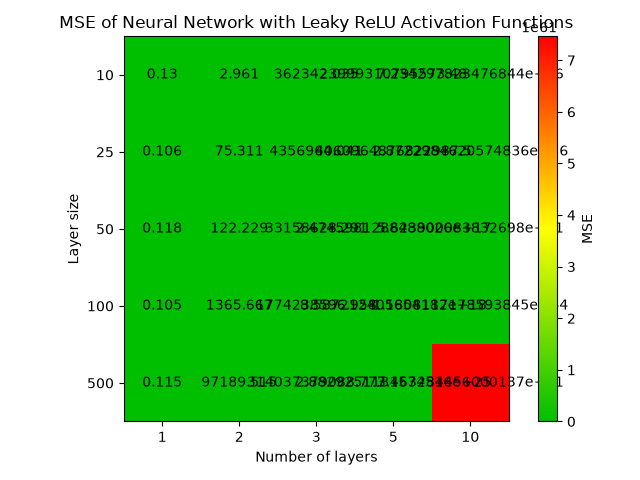
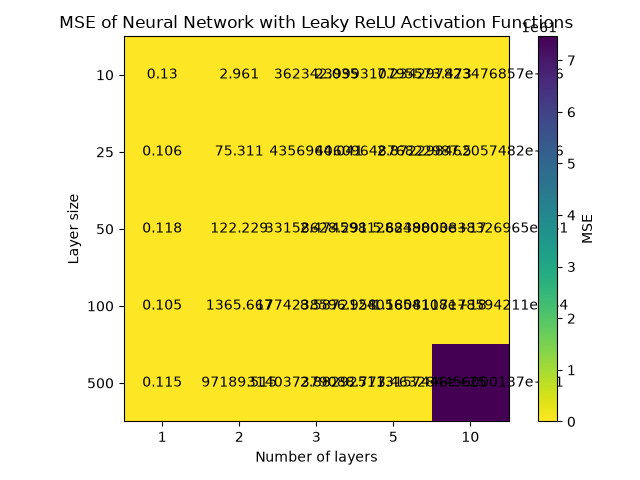
Changed color of plots

diff --git a/part_c/funcs_depth_comparison.py b/part_c/funcs_depth_comparison.py
@@ -43,31 +43,7 @@ def plot_heatmap(n, r, epochs, layer_depths, layer_sizes, activation_func, activ
             errs[i, j] = net.mse(x_test, y_test)
 
     fig, ax = plt.subplots()
-    segmentdata = {
-        'red':   [(0.0, 0.0, 0.0),
-                (0.5, 1.0, 1.0),
-                (1.0, 1.0, 1.0)],
-        'green': [(0.0, 1.0, 0.75),
-                (0.5, 1.0, 1.0),
-                (1.0, 0.0, 0.0)],
-        'blue':  [(0.0, 0.0, 0.0),
-                (0.5, 0.0, 0.0),
-                (1.0, 0.0, 0.0)]
-    }
-    segmentdata = {
-        'red':   [(0.0, 0.0, 0.0),
-                (0.5, 1.0, 1.0),
-                (1.0, 1.0, 0.0)],
-        'green': [(0.0, 0.0, 0.75),
-                (0.5, 1.0, 1.0),
-                (1.0, 0.0, 0.0)],
-        'blue':  [(0.0, 0.0, 0.0),
-                (0.5, 0.0, 0.0),
-                (1.0, 0.0, 0.0)]
-    }
-    # I hope whoever is looking at these figures is not red-green colorblind!
-    cmap = mpl.colors.LinearSegmentedColormap(name="GrYlRd", segmentdata=segmentdata)
-    im = ax.imshow(errs, cmap=cmap)
+    im = ax.imshow(errs, cmap="viridis_r")
     ax.set_xticks(range(len(layer_depths)), labels=layer_depths)
     ax.set_yticks(range(len(layer_sizes)), labels=layer_sizes)
     errs_round = np.round(errs, 3)
@@ -82,16 +58,18 @@ def plot_heatmap(n, r, epochs, layer_depths, layer_sizes, activation_func, activ
     fig.tight_layout()
     fig.savefig(filename)
 
-rng = np.random.default_rng(2026)
-gammas = np.logspace(-4, 0, 9)
-n = 100
-r = 0.25
-# Only 100 epochs, so script can finish before heat death of the universe
-epochs=100
-layer_sizes = [10, 25, 50, 100, 500]
+if __name__ == "__main__":
+    rng = np.random.default_rng(2026)
+    gammas = np.logspace(-4, 0, 9)
+    n = 100
+    r = 0.25
+    # Only 100 epochs, so script can finish before heat death of the universe
+    # Also, using only 100 epochs makes bias/variance trade-off more visible
+    epochs=100
+    layer_sizes = [10, 25, 50, 100, 500]
 
-plot_heatmap(n, r, epochs, [1, 2, 3, 5, 10], layer_sizes, sigmoid, sigmoid_der, "MSE of Neural Network with Sigmoid Activation Functions", "results/sigmoid_heatmap.png", rng)
-rng = np.random.default_rng(2026)
-plot_heatmap(n, r, epochs, [1, 2, 3, 5, 10], layer_sizes, ReLU, ReLU_der, "MSE of Neural Network with ReLU Activation Functions", "results/relu_heatmap.png", rng)
-rng = np.random.default_rng(2026)
-plot_heatmap(n, r, epochs, [1, 2, 3, 5, 10], layer_sizes, LReLU, LReLU_der, "MSE of Neural Network with Leaky ReLU Activation Functions", "results/lrelu_heatmap.png", rng)
+    plot_heatmap(n, r, epochs, [1, 2, 3, 5, 10], layer_sizes, sigmoid, sigmoid_der, "MSE of Neural Network with Sigmoid Activation Functions", "../results/sigmoid_heatmap.png", rng)
+    rng = np.random.default_rng(2026)
+    plot_heatmap(n, r, epochs, [1, 2, 3, 5, 10], layer_sizes, ReLU, ReLU_der, "MSE of Neural Network with ReLU Activation Functions", "../results/relu_heatmap.png", rng)
+    rng = np.random.default_rng(2026)
+    plot_heatmap(n, r, epochs, [1, 2, 3, 5, 10], layer_sizes, LReLU, LReLU_der, "MSE of Neural Network with Leaky ReLU Activation Functions", "../results/lrelu_heatmap.png", rng)
